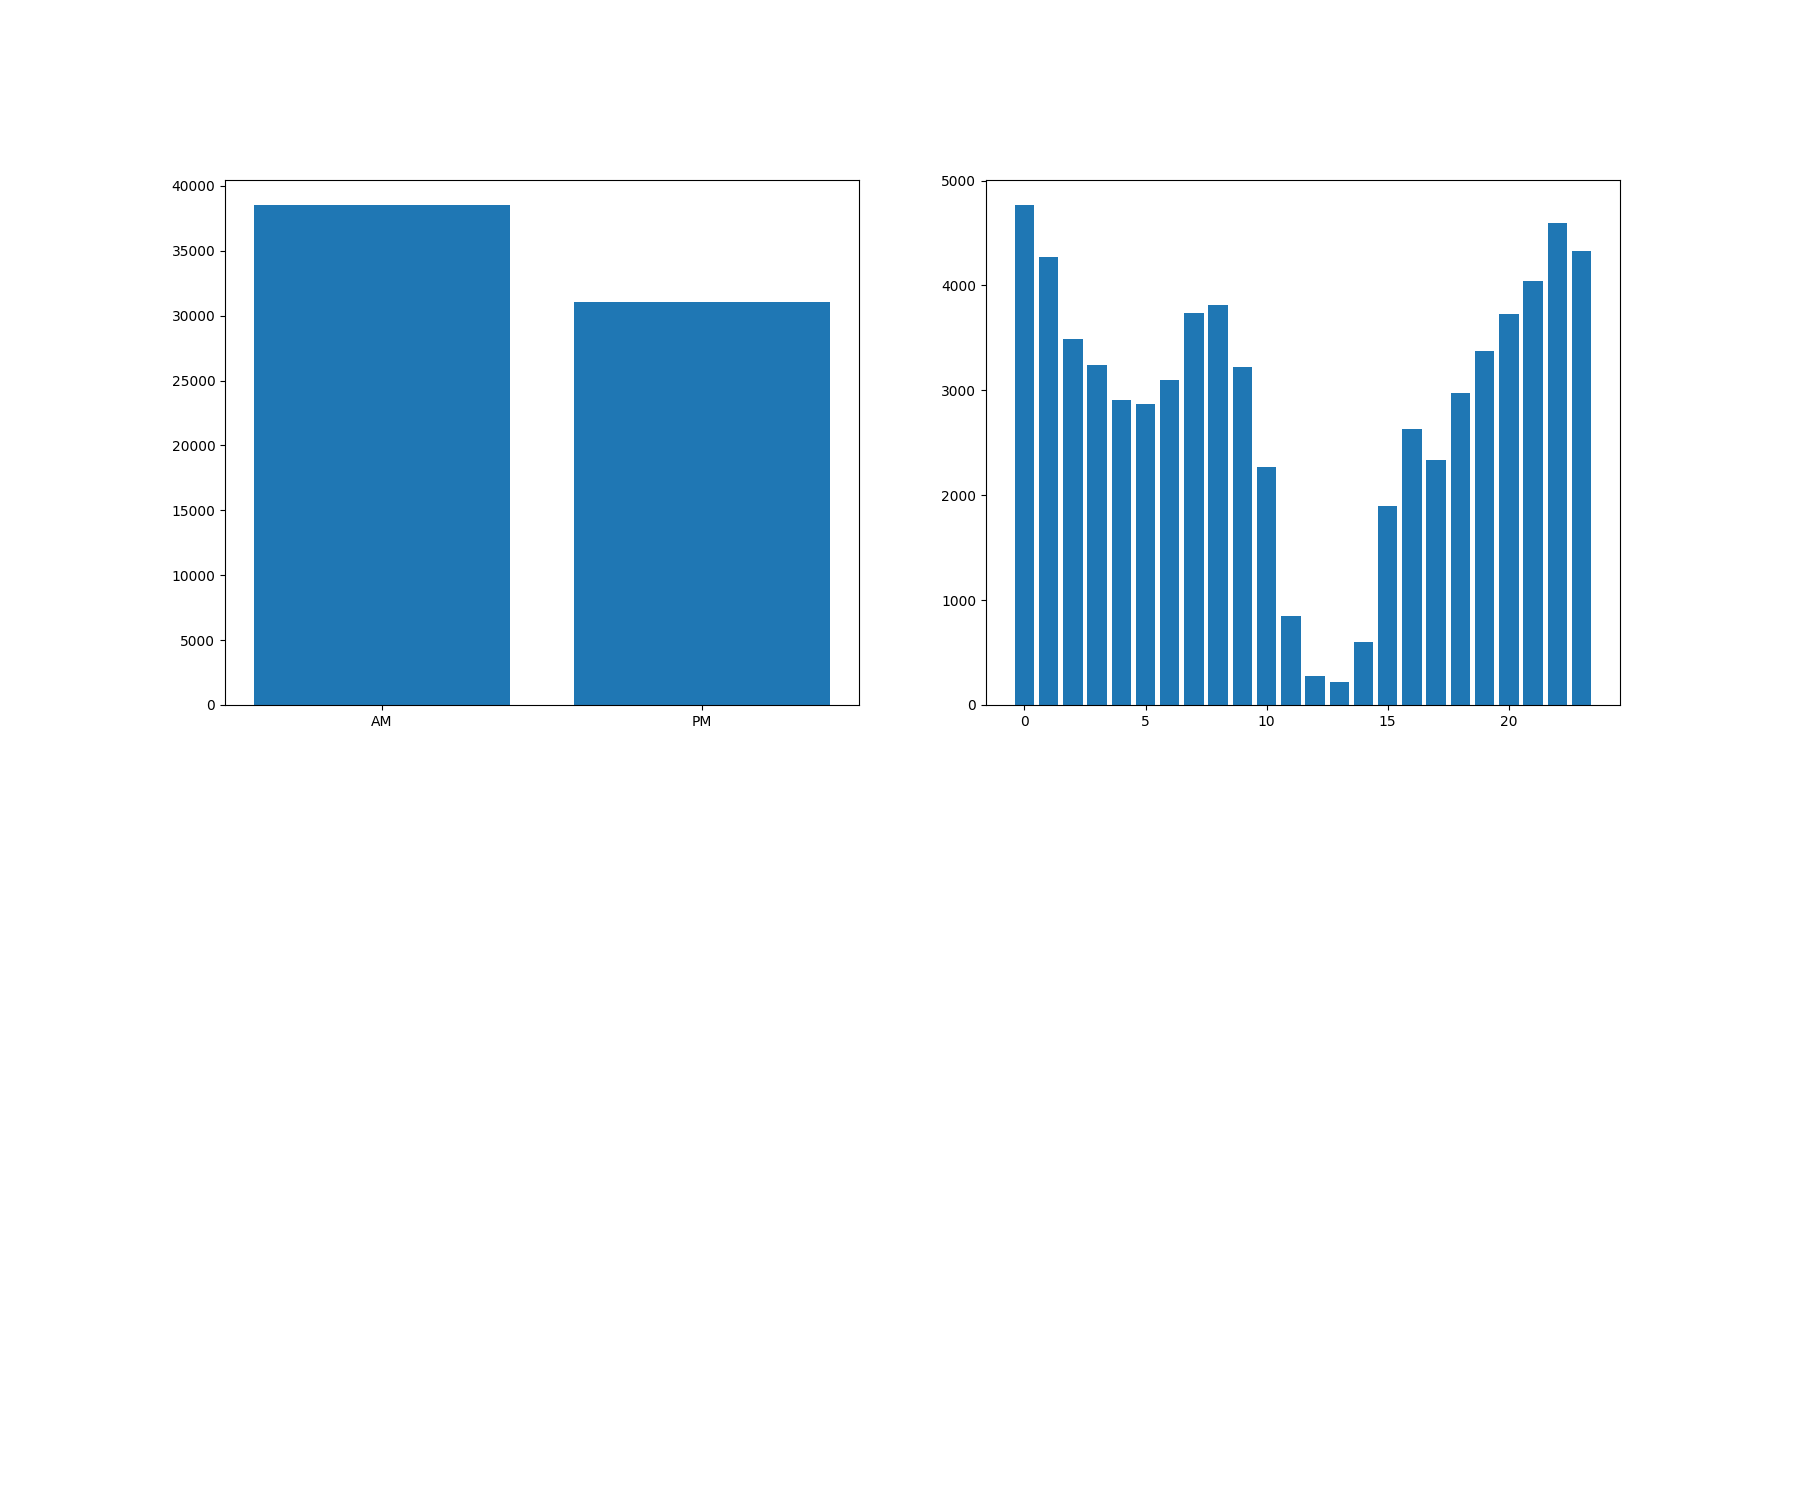
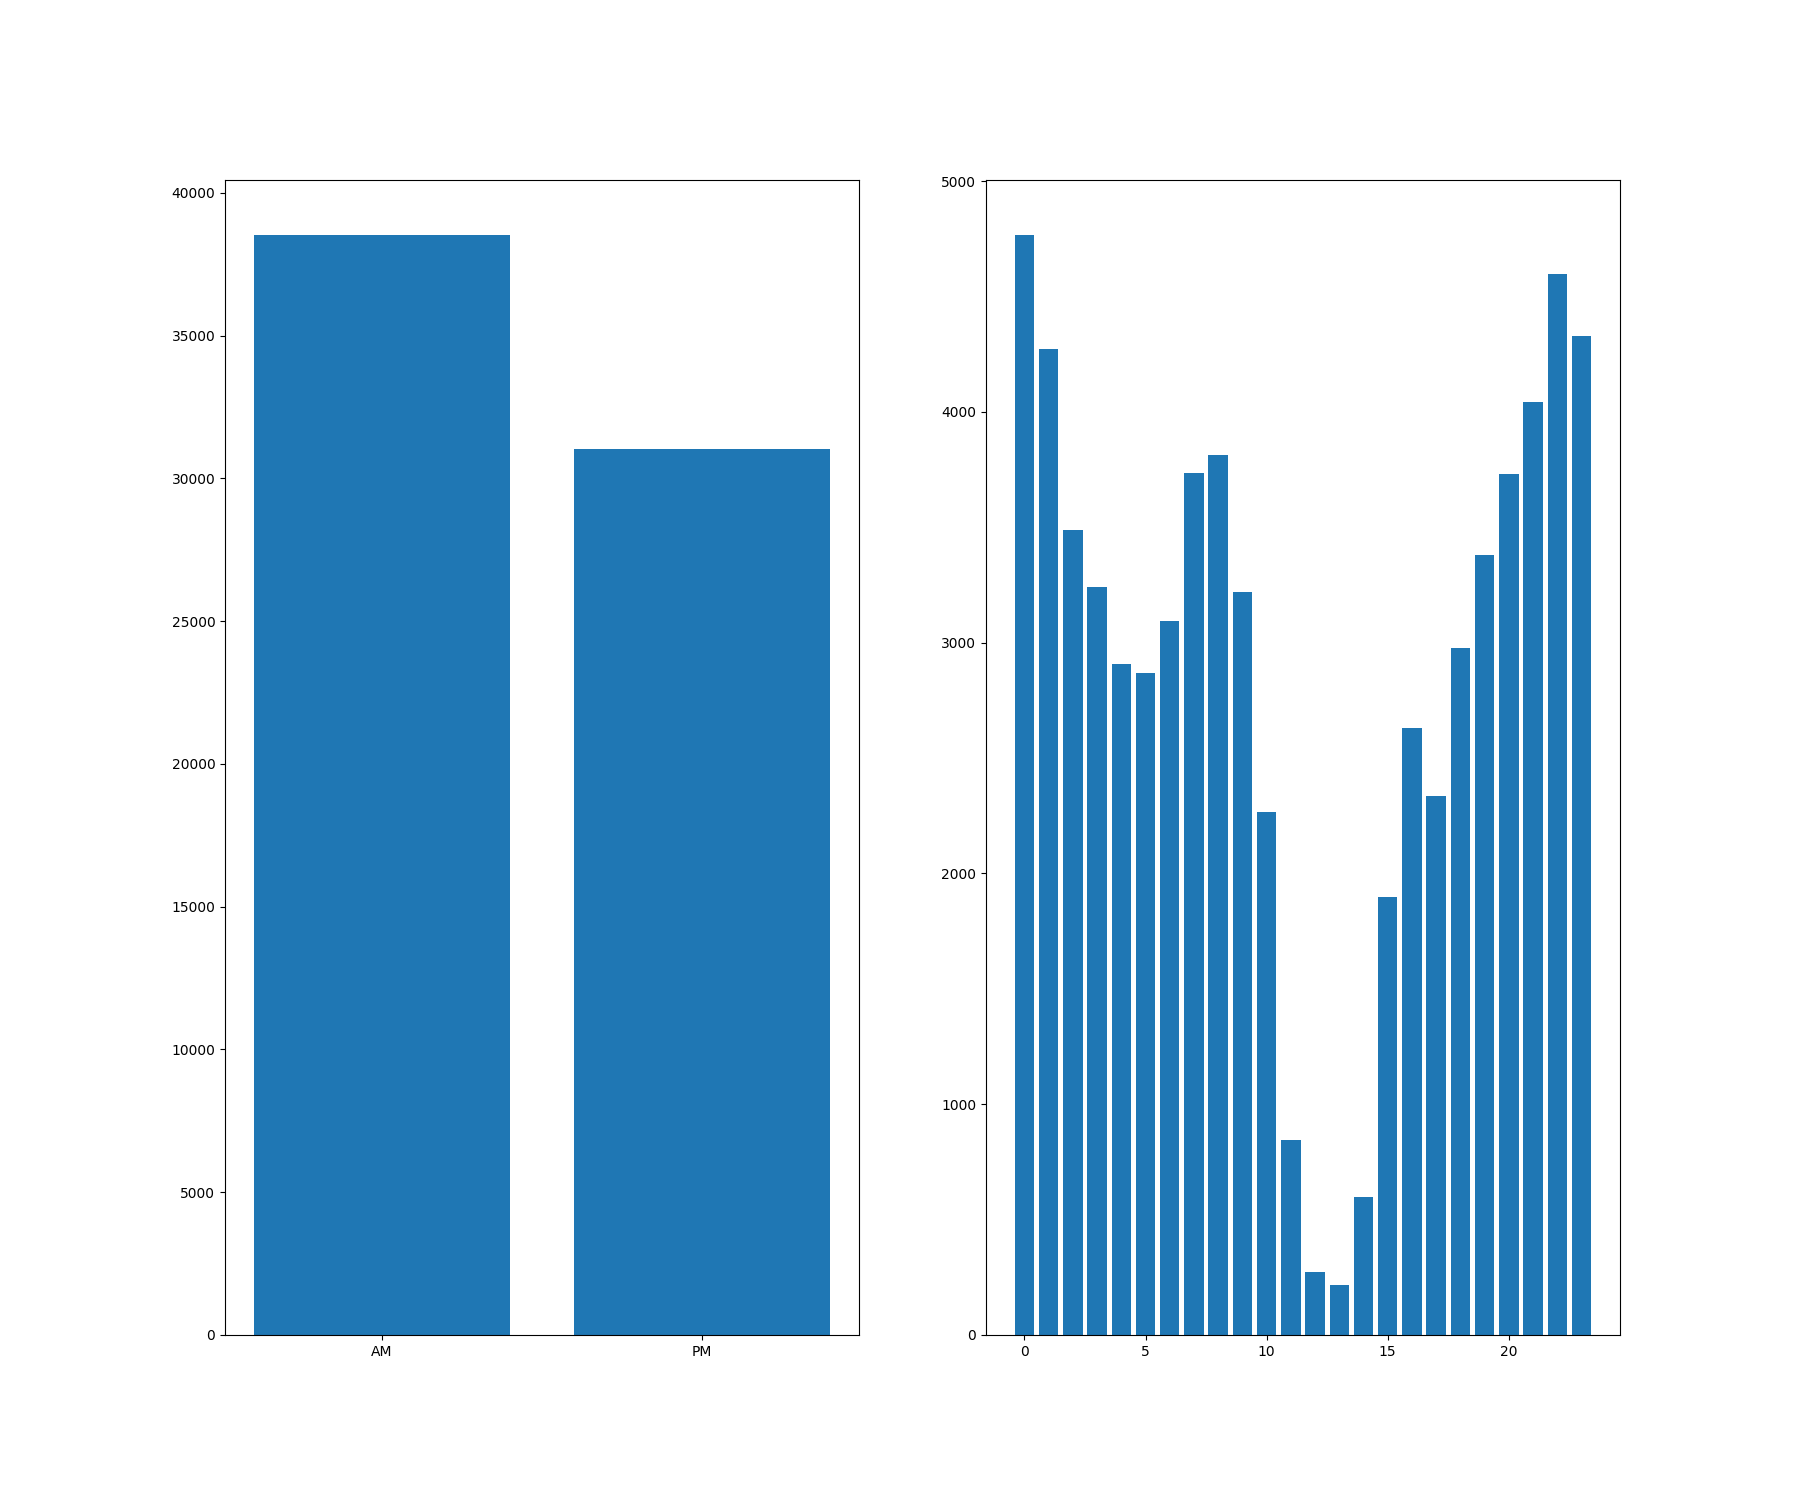
AMPM comparison with DOTW plotted

diff --git a/lastfm.py b/lastfm.py
@@ -96,10 +96,10 @@ plt.xticks(y, idy, rotation=90)
 
 fig.savefig('combined totals.png')
 
-del timemonth, timeyear, timedate, Season, DoftheW, fig
+del timemonth, timeyear, timedate, Season, fig
 
 fig = plt.figure()
-ax1 = fig.add_subplot(221)
+ax1 = fig.add_subplot(121)
 TOD = pd.DataFrame(lastfm['TOD'].value_counts())
 idx=TOD.index.tolist()
 x = range(len(idx))
@@ -107,11 +107,27 @@ plt.bar(x, TOD['TOD'].values)
 plt.xticks(x, idx)
 
 specificTime = pd.DataFrame(lastfm['DateTime'].dt.hour.value_counts())
-ax2 = fig.add_subplot(222)
+ax2 = fig.add_subplot(122)
 plt.bar(specificTime.index, specificTime.DateTime.values)
 
 
-# ax2 = fig.add_subplot(223)
-
-
 fig.savefig('AMPM and hourly totals.png')
+
+am = lastfm[lastfm['TOD'] == 'AM']
+pm = lastfm[lastfm['TOD'] == 'PM']
+
+amVC = pd.DataFrame(am['Day of the Week'].value_counts())
+pmVC = pd.DataFrame(pm['Day of the Week'].value_counts())
+
+fig = plt.figure()
+ax = fig.add_subplot(121)
+idy=DoftheW.index.tolist()
+y = range(len(idy))
+plt.bar(y, amVC['Day of the Week'].values, color='b',align='center')
+plt.bar(y, pmVC['Day of the Week'].values, color='g',align='center')
+plt.xticks(y, idy, rotation=90)
+
+
+ax.legend( ('AM', 'PM') )
+
+fig.savefig('AMPM Comparison.png')
